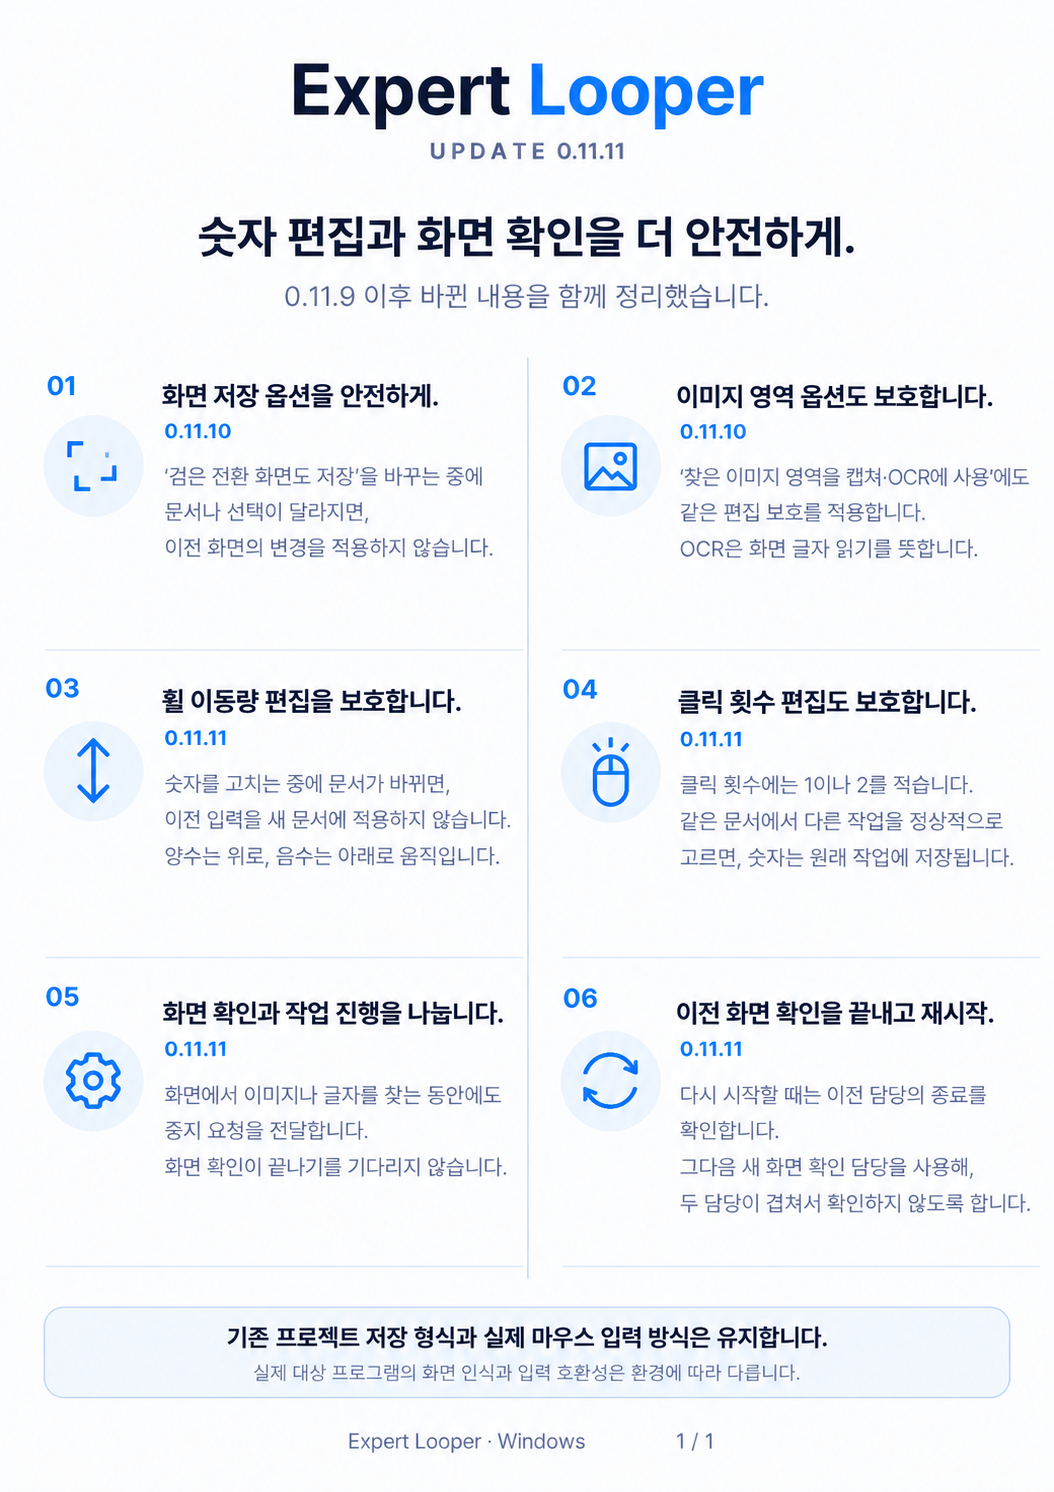
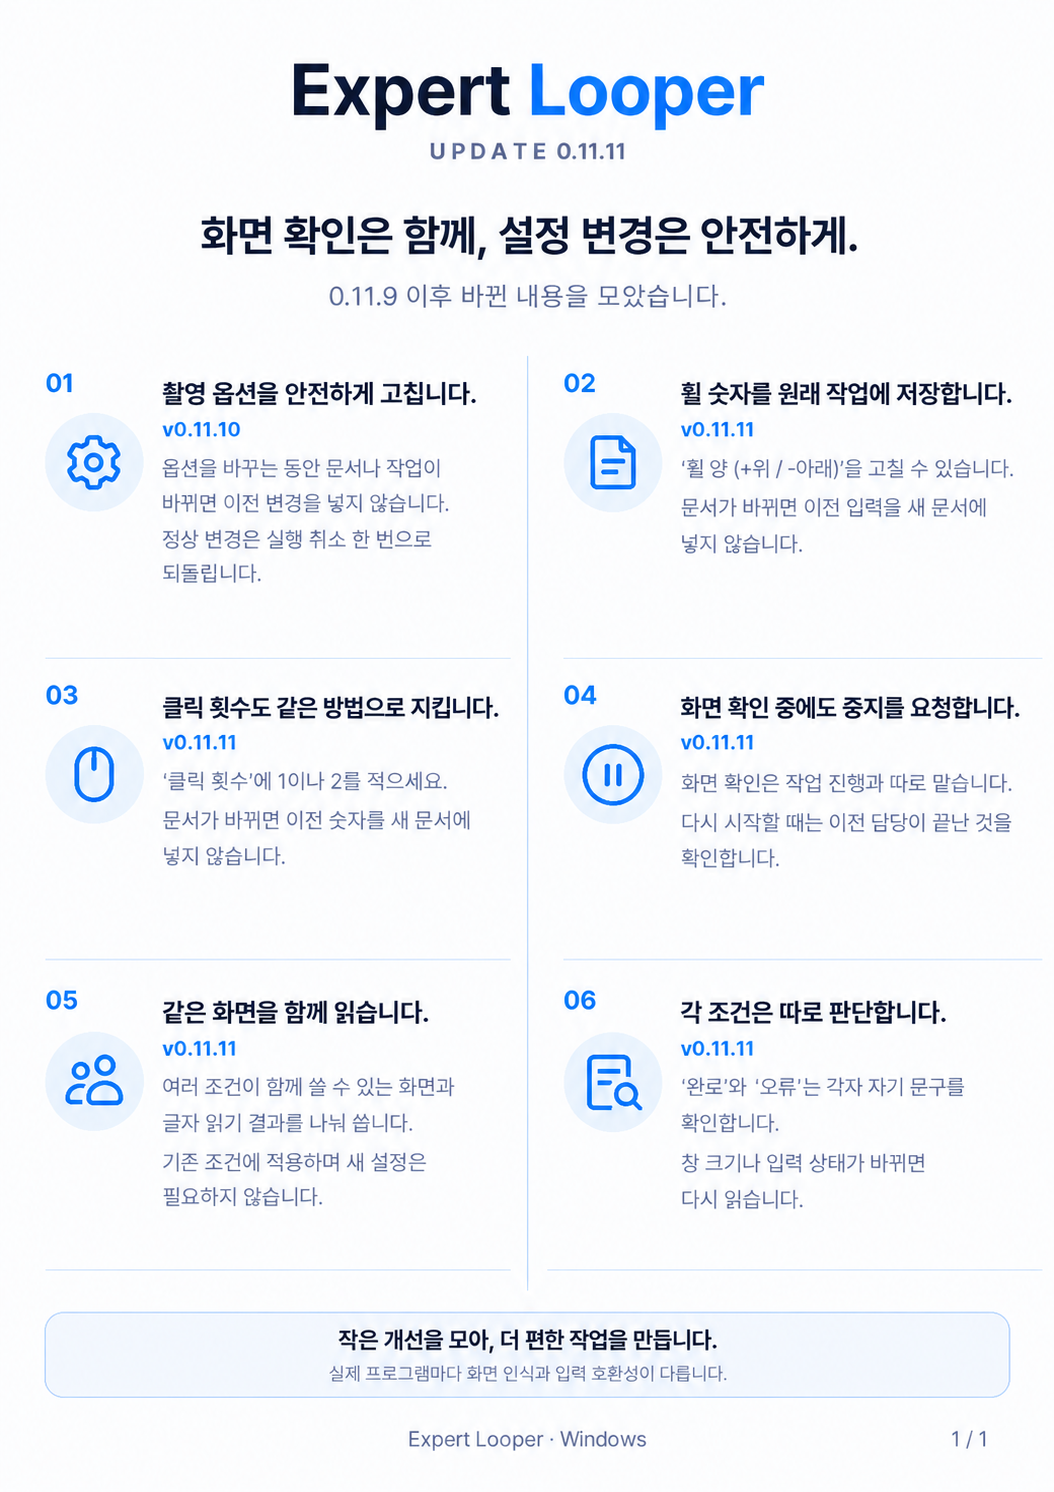
여러 조건 읽기 안내를 묶고 없는 예정 이미지는 붙이지 않기

diff --git a/tests/test_release_empty_progress.py b/tests/test_release_empty_progress.py
@@ -1,0 +1,76 @@
+import datetime
+import importlib.util
+import json
+import pathlib
+import tempfile
+import unittest
+from unittest.mock import patch
+
+ROOT = pathlib.Path(__file__).parents[1]
+spec = importlib.util.spec_from_file_location("empty_progress", ROOT / "scripts/release_discord.py")
+notice = importlib.util.module_from_spec(spec)
+spec.loader.exec_module(notice)
+
+
+class EmptyProgressChecks(unittest.TestCase):
+    def test_empty_items_are_valid_but_id_dates_and_list_remain_checked(self):
+        data = {"id": "20261015-progress-01", "reviewed_on": "2026-10-15", "valid_until": "2026-10-29", "items": []}
+        with tempfile.TemporaryDirectory() as folder:
+            path = pathlib.Path(folder) / "notice.json"
+            path.write_text(json.dumps(data), encoding="utf-8")
+            self.assertEqual(notice.progress_notice(path, datetime.date(2026, 10, 15)), data)
+            for field, value in (("items", {}), ("items", [None] * 4), ("id", "bad"),
+                                 ("valid_until", "2026-10-30"), ("reviewed_on", "2026-10-16")):
+                changed = dict(data, **{field: value})
+                path.write_text(json.dumps(changed), encoding="utf-8")
+                with self.subTest(field=field, value=value), self.assertRaises(ValueError):
+                    notice.progress_notice(path, datetime.date(2026, 10, 15))
+
+    def test_standalone_empty_stops_before_external_read_claim_or_send(self):
+        with patch.object(notice, "progress_notice", return_value={"id": "20261015-progress-01", "items": []}), \
+             patch.object(notice, "get_file") as get, patch.object(notice, "save_state") as save, \
+             patch.object(notice, "send") as send, patch.object(notice, "render_progress") as render:
+            with self.assertRaisesRegex(ValueError, "진행 안내 항목이 없어"):
+                notice.announce_progress()
+            for call in (get, save, send, render):
+                call.assert_not_called()
+
+    def test_release_without_progress_keeps_release_images_and_omits_future_claim(self):
+        for kind in ("fix", "improvement"):
+            with self.subTest(kind=kind):
+                self.check_release(kind, False)
+
+    def test_release_with_progress_keeps_reviewed_image_and_sentence(self):
+        self.check_release("improvement", True)
+
+    def check_release(self, kind, has_progress):
+        release = {"id": 999, "tag_name": "v0.11.11", "body": "<!-- expert-looper-release: " + kind + " -->\n설정을 보호합니다.",
+                   "draft": False, "html_url": "https://example.invalid/release"}
+        progress = {"id": "20261015-progress-01", "items": [{"status": "진행 중", "title": "확인된 항목", "summary": "준비 중입니다."}] if has_progress else []}
+        with patch.dict(notice.os.environ, {"NOTICE_KIND": "release", "RELEASE_TAG": "v0.11.11",
+                                           "DISCORD_CHANGELOG_WEBHOOK": "mock-change", "DISCORD_DOWNLOAD_WEBHOOK": "mock-download"}), \
+             patch.object(notice, "wait_release_feed", return_value=release), \
+             patch.object(notice, "github", return_value=[release]), \
+             patch.object(notice, "get_file", return_value=None), \
+             patch.object(notice.pathlib.Path, "read_text", return_value=""), \
+             patch.object(notice, "progress_notice", return_value=progress), \
+             patch.object(notice, "render_progress", return_value=pathlib.Path("progress.png")) as render, \
+             patch.object(notice, "render_image_notes", return_value=[pathlib.Path("release.png")]) as summary, \
+             patch.object(notice, "save_state", return_value={"sha": "mock"}), \
+             patch.object(notice, "send", return_value="123") as send:
+            notice.main()
+        self.assertEqual(send.call_count, 2)
+        change = send.call_args_list[0].args
+        expected = ([] if kind == "fix" else [pathlib.Path("release.png")]) + ([pathlib.Path("progress.png")] if has_progress else [])
+        self.assertEqual(change[2], expected)
+        self.assertEqual("함께 첨부한 개발 진행 이미지" in change[1], has_progress)
+        self.assertEqual(render.call_count, int(has_progress))
+        self.assertEqual(summary.call_count, int(kind != "fix"))
+        self.assertIn("설정을 보호합니다.", change[1])
+        self.assertIn("도움말 → 업데이트 확인", change[1])
+        self.assertLess(len(change[1]), 2000)
+        self.assertEqual(send.call_args_list[1].args[2], [])
+
+
+if __name__ == "__main__":
+    unittest.main()

diff --git a/scripts/release_discord.py b/scripts/release_discord.py
@@ -92,7 +92,7 @@ def public_notice_text(text):
     return text
 
 
-def release_notice(release, target, kind, anchor):
+def release_notice(release, target, kind, anchor, *, has_progress=True):
     """Keep reviewed facts in the message; the image is only a quick summary."""
     details = public_notice_text(clean(release.get("body") or "이번 버전의 변경 설명이 없습니다. 아래 변경 내용 링크에서 확인해 주세요."))
     if len(details) > 1500:
@@ -106,8 +106,9 @@ def release_notice(release, target, kind, anchor):
     )
     if kind != "fix":
         text += f"첨부 이미지에는 {anchor} 이후 바뀐 내용의 핵심을 담았습니다. 중간에 고친 내용도 포함했습니다.\n"
-    text += (f"전체 변경 내용: https://github.com/{REPO}/blob/main/CHANGELOG.md\n\n"
-             "함께 첨부한 개발 진행 이미지는 준비 중인 작업입니다. 아직 사용할 수 없습니다. 업데이트 날짜는 정해지지 않았습니다.")
+    text += f"전체 변경 내용: https://github.com/{REPO}/blob/main/CHANGELOG.md"
+    if has_progress:
+        text += "\n\n함께 첨부한 개발 진행 이미지는 준비 중인 작업입니다. 아직 사용할 수 없습니다. 업데이트 날짜는 정해지지 않았습니다."
     if len(text) > 2000:
         raise ValueError("Rewrite complete release details to fit the message; do not clip")
     return text
@@ -199,7 +200,7 @@ def progress_notice(path=pathlib.Path("개발 진행 안내.json"), today=None):
     expires=datetime.date.fromisoformat(data["valid_until"])
     if not reviewed<=today<=expires or (expires-reviewed).days>14:raise ValueError("Progress summary needs review")
     items=data.get("items",[])
-    if not 1<=len(items)<=3:raise ValueError("Progress summary needs 1..3 items")
+    if not isinstance(items,list) or not 0<=len(items)<=3:raise ValueError("Progress summary needs 0..3 items")
     for item in items:
         if item.get("status") not in ("진행 중","업데이트 예정"):raise ValueError("Invalid progress state")
         if not isinstance(item.get("title"),str) or not 1<=len(item["title"])<=28:raise ValueError("Invalid progress title")
@@ -217,6 +218,9 @@ def render_progress(data, folder, fonts):
 
 def announce_progress():
     data=progress_notice()
+    if not data["items"]:
+        print("진행 안내 항목이 없어 전송하지 않습니다.")
+        raise ValueError("진행 안내 항목이 없어 전송하지 않습니다.")
     state_path=".release-notifications/progress-"+data["id"]+".json"
     existing=get_file(state_path)
     if existing:
@@ -332,7 +336,7 @@ def main():
     for r in all_releases:
         if re.fullmatch(r"v?0\.\d+\.\d+",r["tag_name"]) and not r["draft"]:notes[r["tag_name"].lstrip("v")]=clean(r.get("body") or "")
     images=[];url=release["html_url"]
-    content = release_notice(release, target, kind, anchor)
+    content = release_notice(release, target, kind, anchor, has_progress=False)
     download = download_notice(tag, target)
     errors=[]
     for channel,secret,text,files in (("changelog","DISCORD_CHANGELOG_WEBHOOK",content,images),("download","DISCORD_DOWNLOAD_WEBHOOK",download,[])):
@@ -348,8 +352,11 @@ def main():
                     if kind != "fix":
                         if version(anchor) >= version(target): raise ValueError("Image baseline is not older than release")
                         files=render_image_notes(cumulative(notes,anchor,target),anchor,target,pathlib.Path("output"),pathlib.Path("fonts"))
-                    progress=render_progress(progress_notice(),pathlib.Path("output"),pathlib.Path("fonts"))
-                    files=[*files,progress]
+                    progress_data=progress_notice()
+                    if progress_data["items"]:
+                        progress=render_progress(progress_data,pathlib.Path("output"),pathlib.Path("fonts"))
+                        files=[*files,progress]
+                        text=release_notice(release,target,kind,anchor,has_progress=True)
                     if len(files)>10:raise ValueError("Combined summary exceeds Discord attachment limit")
                 claim=save_state(state_path,{"status":"pending","version":target,"kind":kind})
                 # Never blindly retry an uncertain POST; inspect the channel first.

diff --git a/tests/test_release_discord.py b/tests/test_release_discord.py
@@ -88,7 +88,7 @@ class Checks(unittest.TestCase):
         def send(url,text,images):
             if url=="changelog" and fail_changelog:raise TimeoutError()
             sent.append((url,text,images));return "123"
-        with patch.dict(os.environ,{"NOTICE_KIND":"release","RELEASE_TAG":"v0.11.2","DISCORD_CHANGELOG_WEBHOOK":"changelog","DISCORD_DOWNLOAD_WEBHOOK":"download"}),patch.object(announce,"github",side_effect=gh),patch.object(announce,"get_file",side_effect=get),patch.object(announce,"save_state",side_effect=save),patch.object(announce,"send",side_effect=send),patch.object(announce,"progress_notice",return_value={}),patch.object(announce,"render_progress",return_value=pathlib.Path("progress.png")):
+        with patch.dict(os.environ,{"NOTICE_KIND":"release","RELEASE_TAG":"v0.11.2","DISCORD_CHANGELOG_WEBHOOK":"changelog","DISCORD_DOWNLOAD_WEBHOOK":"download"}),patch.object(announce,"github",side_effect=gh),patch.object(announce,"get_file",side_effect=get),patch.object(announce,"save_state",side_effect=save),patch.object(announce,"send",side_effect=send),patch.object(announce,"progress_notice",return_value={"items":[{}]}),patch.object(announce,"render_progress",return_value=pathlib.Path("progress.png")):
             if missing_images:
                 with patch.object(announce,'render_image_notes',side_effect=FileNotFoundError('AI assets absent')):
                     with self.assertRaises(RuntimeError):announce.main()
@@ -136,7 +136,7 @@ class Checks(unittest.TestCase):
                 sends.append((url,text,files))
                 if fail:raise TimeoutError()
                 return "321"
-            with patch.dict(os.environ,{"NOTICE_KIND":"progress","DISCORD_CHANGELOG_WEBHOOK":"changelog"}),patch.object(announce,"github",side_effect=AssertionError("No release or download request")),patch.object(announce,"progress_notice",return_value={"id":"review-20261001"}),patch.object(announce,"render_progress",return_value=pathlib.Path("progress.png")),patch.object(announce,"get_file",side_effect=get),patch.object(announce,"save_state",side_effect=save),patch.object(announce,"send",side_effect=send):
+            with patch.dict(os.environ,{"NOTICE_KIND":"progress","DISCORD_CHANGELOG_WEBHOOK":"changelog"}),patch.object(announce,"github",side_effect=AssertionError("No release or download request")),patch.object(announce,"progress_notice",return_value={"id":"review-20261001","items":[{}]}),patch.object(announce,"render_progress",return_value=pathlib.Path("progress.png")),patch.object(announce,"get_file",side_effect=get),patch.object(announce,"save_state",side_effect=save),patch.object(announce,"send",side_effect=send):
                 if fail:
                     with self.assertRaises(TimeoutError):announce.main()
                     with self.assertRaises(ValueError):announce.main()

diff --git a/tests/test_release_simple_copy.py b/tests/test_release_simple_copy.py
@@ -12,7 +12,7 @@ spec.loader.exec_module(notice)
 
 class SimpleReleaseCopyChecks(unittest.TestCase):
     def test_progress_notice_explains_preparation_without_claiming_release(self):
-        with patch.object(notice, "progress_notice", return_value={"id": "review-20261001"}), \
+        with patch.object(notice, "progress_notice", return_value={"id": "review-20261001", "items": [{}]}), \
              patch.object(notice, "get_file", return_value=None), \
              patch.object(notice, "render_progress", return_value=pathlib.Path("reviewed.png")), \
              patch.object(notice, "save_state", return_value={"sha": "fake"}), \

diff --git a/CHANGELOG.md b/CHANGELOG.md
@@ -1,24 +1,19 @@
-## 0.11.11 후보 — 숫자 편집 보호와 화면 확인 개선
+## 0.11.11 후보 — 숫자 편집 보호와 화면 함께 읽기 개선
 
 아직 공개되지 않은 후보입니다. 실제 설치 파일은 공개 배포 릴리스에서 확인하세요.
 
-### 무엇이 좋아지나요?
+### 숫자를 고칠 때 다른 문서를 지킵니다.
+휠 작업의 ‘휠 양 (+위 / -아래)’에 숫자를 적으세요. 양수는 위로, 음수는 아래로 움직입니다. 입력 범위는 -12000부터 12000까지입니다. ‘클릭 횟수’에는 1이나 2를 적으세요.
+숫자를 고치는 동안 문서가 바뀌면 이전 입력을 새 문서에 넣지 않습니다. 같은 문서에서 다른 작업을 고르면, 다른 변경이 없을 때 입력한 숫자를 원래 작업에 저장합니다. 실행 취소도 그대로 쓸 수 있습니다.
 
-휠 이동량이나 클릭 횟수를 고치는 동안 문서가 바뀌면, 이전 화면에서 입력한 숫자를 새 문서에 적용하지 않습니다. 다른 문서에 이전 편집이 섞이는 일을 막습니다.
+### 같은 화면을 여러 번 읽는 일을 줄입니다.
+같은 창에서 여러 이미지나 문구를 확인할 때, 함께 쓸 수 있는 화면과 글자 읽기 결과를 나눠 씁니다. 예를 들어 같은 화면에서 ‘완료’와 ‘오류’를 각각 찾을 수 있습니다. 각 조건은 자기 문구와 기준으로 따로 판단합니다.
+기존 화면 조건과 여러 경우를 확인하는 선택 작업에서 별도 설정 없이 적용합니다. 앞 조건의 결과가 필요한 경우에는 원래처럼 순서대로 읽습니다. 창 크기나 입력 상태가 바뀌면 오래된 묶음을 버리고 다시 확인합니다. 추가 확인이 필요한 조건은 다시 읽으므로 항상 한 번만 읽는다는 뜻은 아닙니다.
 
-### 어떻게 사용하나요?
+### 중지와 다시 시작도 보호합니다.
+화면 확인은 작업 진행과 따로 맡습니다. 화면 읽기가 끝나기 전에도 중지 요청을 전달합니다. 다시 시작할 때는 이전 담당이 끝난 것을 확인해 담당이 겹치지 않게 합니다.
 
-- 휠 작업의 ‘휠 양 (+위 / -아래)’에 숫자를 적으세요. 양수는 위로, 음수는 아래로 움직입니다. 기존처럼 -12000부터 12000까지 입력할 수 있습니다.
-- 클릭 작업의 ‘클릭 횟수’에는 1이나 2를 적으세요. 1은 한 번, 2는 두 번 클릭합니다. 마우스 버튼을 고르는 방법은 같습니다.
-- 같은 문서에서 다른 작업을 선택하면, 다른 변경이 끼어들지 않았을 때 입력한 숫자는 원래 작업에 저장됩니다. 새로 선택한 작업의 설정도 정상적으로 표시됩니다.
-
-### 화면 확인과 작업 진행도 나눕니다.
-
-화면에서 이미지나 글자를 찾는 일은 따로 맡깁니다. 화면 확인이 끝나기를 기다리지 않고 중지 요청을 전달합니다. 다시 시작할 때는 이전 화면 확인 담당이 끝났는지 확인하고 새 담당을 사용합니다. 이전 담당과 새 담당이 겹쳐서 화면을 확인하지 않도록 합니다.
-
-가려진 자체 시험 창에서 이미지·글자 읽기, 중지, 재시작을 확인했습니다. 실제 대상 프로그램의 화면 인식과 입력은 환경에 따라 다릅니다. 모든 프로그램에서 창을 앞에 두지 않고 키보드·마우스 입력을 보낼 수 있다는 뜻은 아닙니다.
-
-기존 프로젝트 저장 형식과 실제 마우스 입력 방식은 같습니다. 여러 조건의 화면 읽기를 함께 묶는 후속 개선은 이번 완료 범위에 포함하지 않습니다.
+기존 프로젝트와 입력 방식은 같습니다. 실제 프로그램마다 화면 인식과 입력 호환성이 다릅니다. 모든 창을 뒤에 둔 채 키보드와 마우스를 쓸 수 있다는 뜻은 아닙니다.
 
 ## 0.11.10 — 촬영·OCR 옵션 편집 안정성 개선
 
